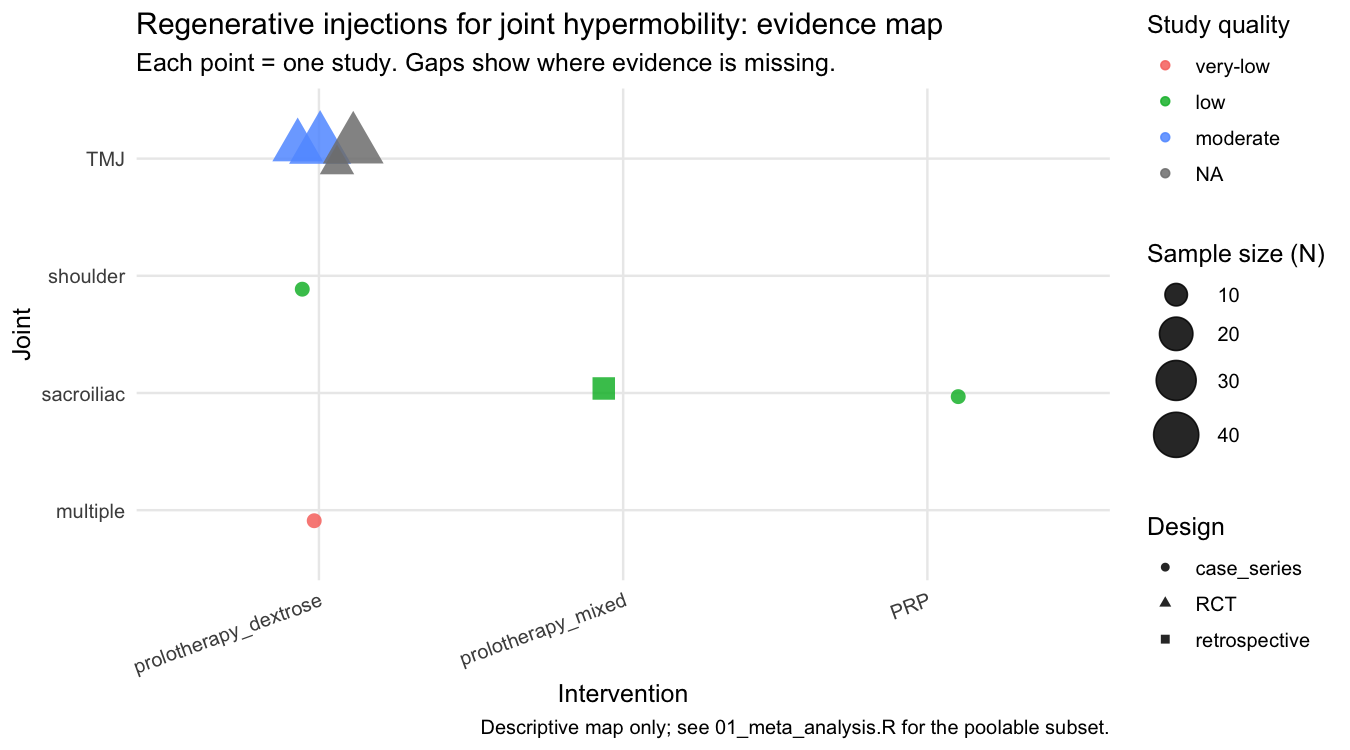
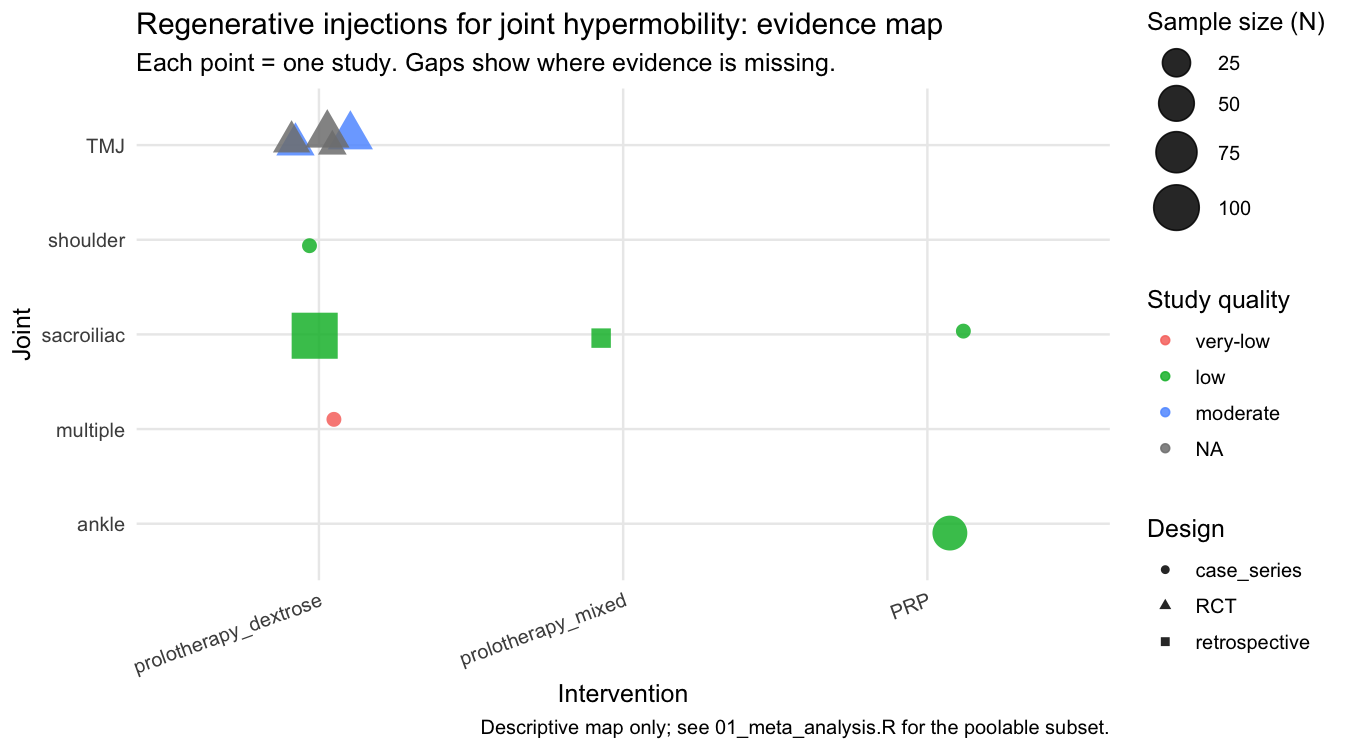
Merge research: expand to 11 studies (ankle + larger SI); fill PRISMA + RoB; pandoc-free PRISMA fallback; embed figures in README

diff --git a/README.md b/README.md
@@ -25,6 +25,18 @@ People with joint hypermobility are often offered regenerative injections (PRP, 
 
 *Published pooled estimate (Sit et al. 2021, 3 RCTs): standardized mean difference −0.76 (95% CI −1.19 to −0.32), favoring prolotherapy, with zero heterogeneity.*
 
+**Study selection (PRISMA flow)**
+
+![PRISMA flow](figures/prisma.png)
+
+*Preliminary, scoping-level record funnel from the literature search: 11 primary studies included across 5 joints. A finalized dual-screened search is future work.*
+
+**Risk of bias (RCTs)**
+
+![Risk of bias](figures/rob.png)
+
+*RoB 2 assessment of the controlled trials — mostly "some concerns," reflecting small samples and reporting limitations. First-pass judgments, to be confirmed by a second rater.*
+
 ## What this shows
 
 - Independent meta-analyses agree dextrose prolotherapy reduces **TMJ pain** vs placebo (pooled SMD ≈ −0.76, low heterogeneity).
@@ -72,9 +84,12 @@ copied into `figures/` (tracked). Optionally render the full report with
 
 > **Note.** `R/03_prisma.R` and `R/04_risk_of_bias.R` render the PRISMA flow
 > diagram and risk-of-bias plot from `data/raw/prisma_counts.csv` and
-> `data/raw/rob.csv`. Those files ship as templates: until the real search-log
-> counts and per-study appraisals are entered, both scripts **skip** rather than
-> invent numbers, and `run_all.R` still rebuilds everything else.
+> `data/raw/rob.csv`. These are now populated from the literature search
+> (11 primary studies) — the counts are a **preliminary, scoping-level** funnel
+> and the RoB judgments are first-pass, both flagged as such. If any value is
+> reset to `TODO`, the scripts safely **skip** rather than invent numbers.
+> (`03_prisma.R` uses the official PRISMA2020 renderer when pandoc is available,
+> e.g. inside RStudio, and a dependency-free fallback otherwise.)
 
 ## Data & sources
 
